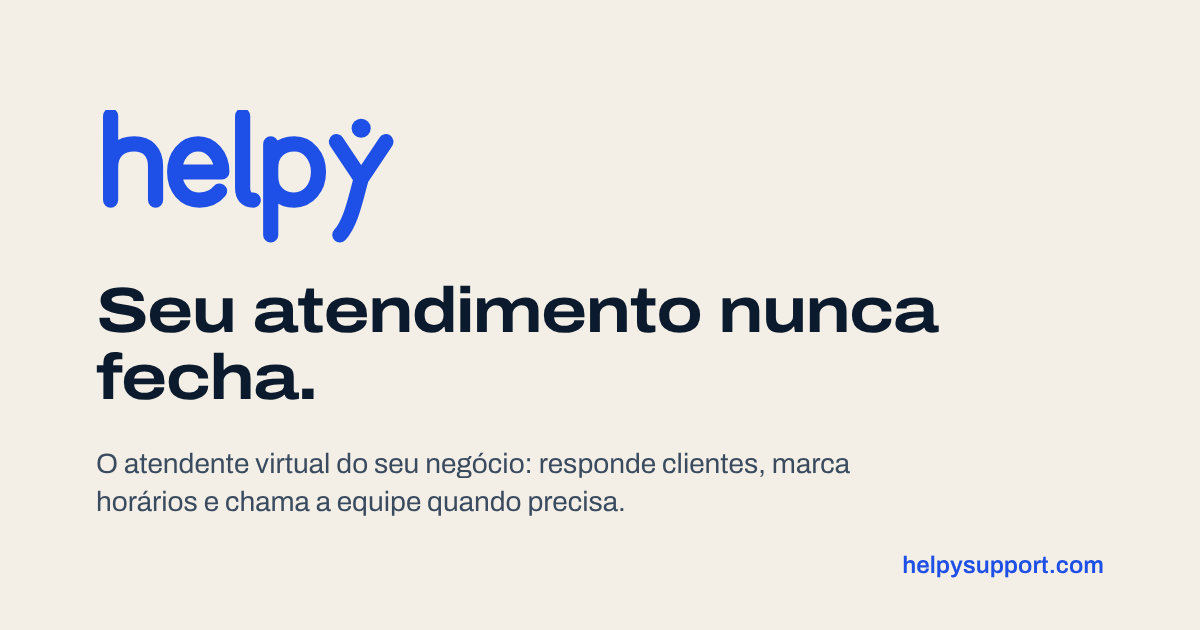
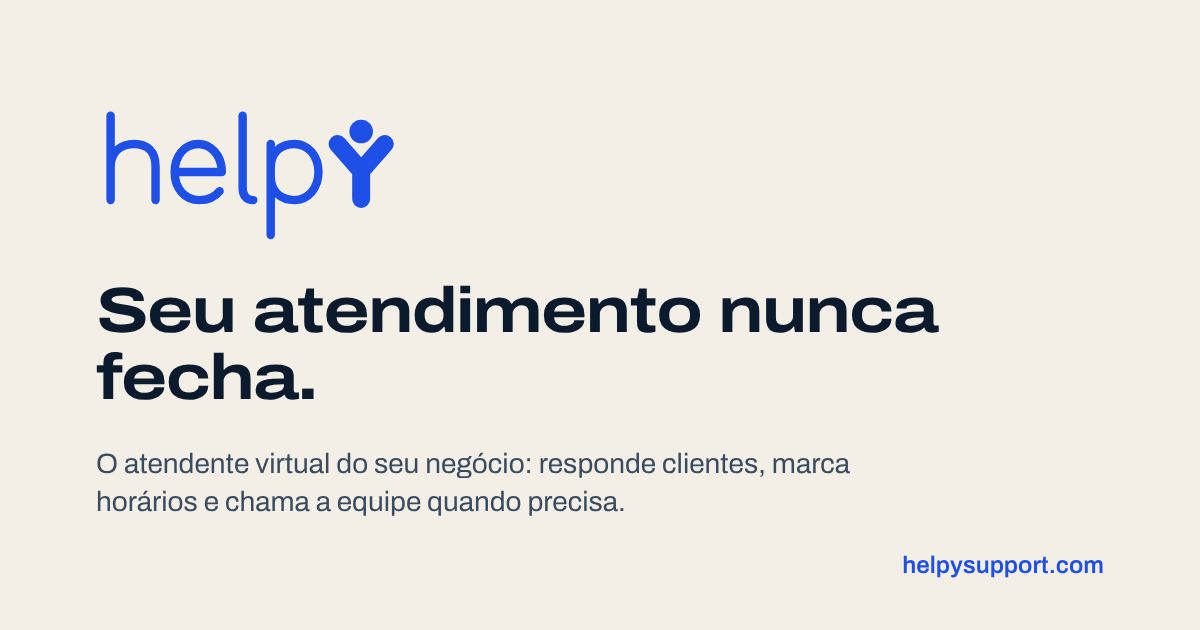
Marca na linha leve: letras finas e o Y-pessoa encorpado; abertura fluida, calculada quadro a quadro, com pouso suave no topo (#100)

Changed region(s): [[0.0617, 0.181, 0.3392, 0.3921]]

diff --git a/src/components/IntroLogo.jsx b/src/components/IntroLogo.jsx
@@ -1,12 +1,29 @@
-import { useCallback, useEffect, useRef, useState } from 'react';
-import { LETRAS_HELPY, PESSOA, TRACO } from '@/components/MarcaHelpy';
+import { useCallback, useEffect, useLayoutEffect, useRef, useState } from 'react';
+import { LETRAS_HELPY, PESSOA, TRACO, TRACO_PESSOA } from '@/components/MarcaHelpy';
 
 const CHAVE = 'helpy-abertura';
 
-// a história (segundos): a pessoinha (o y) aparece sozinha no meio e chama "aqui!",
-// acenando; o "help" vem se escrevendo até ela, num traço só; quando a ajuda
-// chega, ela dá um pulinho de alegria e o nome inteiro voa até o topo do site
-const T = { voa: 3.35, fim: 4.1 };
+// A história, numa linha do tempo só (segundos), calculada quadro a quadro:
+// a pessoinha (o Y) se desenha sozinha no meio e faz um "aqui!"; a caneta escreve
+// "help" num gesto contínuo enquanto ela desliza até o lugar dela; quando a ajuda
+// chega, um pulinho de alegria; e o nome voa até o logo do topo.
+const T = {
+  y: [0.05, 0.6], // o y se desenha
+  cabeca: [0.42, 0.9], // a cabeça aparece
+  aqui: [0.75, 1.25], // levanta e assenta: "aqui!"
+  escreve: [1.15, 2.55], // a caneta escreve "help"
+  alegria: [2.55, 3.05], // pulinho
+  voa: 3.2,
+  fim: 4.05,
+};
+const DESLOCA = 205; // quanto o y começa à esquerda (fica no centro do nome)
+
+const cl = (x) => Math.max(0, Math.min(1, x));
+const jan = (t, [a, b]) => cl((t - a) / (b - a));
+const suave = (x) => 0.5 - Math.cos(Math.PI * x) / 2; // acelera e desacelera uma vez
+const saida = (x) => 1 - Math.pow(1 - x, 3);
+const mola = (x) => (x <= 0 ? 0 : x >= 1 ? 1 : 1 + 2.2 * Math.pow(x - 1, 3) + 1.2 * Math.pow(x - 1, 2));
+const sino = (x) => Math.sin(Math.PI * x); // sobe e volta
 
 /** Mostra a abertura uma vez por visita, e nunca para quem pediu menos movimento. */
 export function deveMostrarAbertura() {
@@ -22,10 +39,18 @@ export function deveMostrarAbertura() {
 
 export default function IntroLogo({ onSaindo, onFim }) {
   const logo = useRef(null);
+  const letras = useRef([]);
+  const traco = useRef(null);
+  const y = useRef(null);
+  const pessoa = useRef(null);
+  const cabeca = useRef(null);
   const [fase, setFase] = useState('entra');
   const [pulou, setPulou] = useState(false);
+  const saiu = useRef(false);
 
   const sair = useCallback((pulouAgora) => {
+    if (saiu.current) return;
+    saiu.current = true;
     try {
       sessionStorage.setItem(CHAVE, '1');
     } catch {
@@ -34,24 +59,67 @@ export default function IntroLogo({ onSaindo, onFim }) {
     setFase('sai');
     setPulou(pulouAgora);
     onSaindo?.();
-    // o nome voa até onde fica o logo do topo
+    const dur = (T.fim - T.voa) * 1000;
+    // o nome voa até o logo do topo e o traço afina no caminho
     const alvo = document.querySelector('.lp-top-marca svg, .lp-top-marca');
     const el = logo.current;
     if (!pulouAgora && alvo && el) {
       const a = alvo.getBoundingClientRect();
       const b = el.getBoundingClientRect();
       const escala = a.height / b.height || 0.1;
+      const curva = 'cubic-bezier(0.65, 0, 0.25, 1)';
       el.animate(
         [{ transform: 'none' }, { transform: `translate(${a.left - b.left}px, ${a.top - b.top}px) scale(${escala})` }],
-        { duration: (T.fim - T.voa) * 1000, easing: 'cubic-bezier(0.7, 0, 0.2, 1)', fill: 'forwards' },
+        { duration: dur, easing: curva, fill: 'forwards' },
       );
     }
-    setTimeout(() => onFim?.(), pulouAgora ? 420 : (T.fim - T.voa) * 1000);
+    setTimeout(() => onFim?.(), pulouAgora ? 420 : dur);
   }, [onSaindo, onFim]);
 
+  // tamanho de cada traço, para a caneta andar no mesmo ritmo em todas as letras
+  const medidas = useRef(null);
+  useLayoutEffect(() => {
+    const tam = letras.current.map((p) => p?.getTotalLength() ?? 1);
+    const inicio = [];
+    tam.reduce((s, l, i) => ((inicio[i] = s), s + l), 0);
+    medidas.current = { tam, inicio, total: tam.reduce((s, l) => s + l, 0), y: y.current?.getTotalLength() ?? 1 };
+    // tudo começa escondido
+    letras.current.forEach((p, i) => p && (p.style.strokeDasharray = `${tam[i]} ${tam[i]}`, p.style.strokeDashoffset = `${tam[i]}`));
+    if (y.current) (y.current.style.strokeDasharray = `${medidas.current.y} ${medidas.current.y}`, y.current.style.strokeDashoffset = `${medidas.current.y}`);
+  }, []);
+
   useEffect(() => {
-    const t = setTimeout(() => sair(false), T.voa * 1000);
-    return () => clearTimeout(t);
+    let quadro = 0;
+    const t0 = performance.now();
+    const passo = (agora) => {
+      const t = (agora - t0) / 1000;
+      const m = medidas.current;
+      if (m) {
+        // o y se desenha (caneta saindo), e a cabeça aparece com uma mola
+        const py = saida(jan(t, T.y));
+        y.current.style.strokeDashoffset = `${m.y * (1 - py)}`;
+        y.current.style.opacity = py > 0 ? 1 : 0;
+        const pc = mola(jan(t, T.cabeca));
+        cabeca.current.setAttribute('transform', `translate(${PESSOA.cabeca.cx} ${PESSOA.cabeca.cy}) scale(${pc}) translate(${-PESSOA.cabeca.cx} ${-PESSOA.cabeca.cy})`);
+        // a caneta escreve "help" de uma vez só, no mesmo ritmo do começo ao fim
+        const pe = suave(jan(t, T.escreve));
+        const andou = pe * m.total;
+        letras.current.forEach((p, i) => {
+          const f = cl((andou - m.inicio[i]) / m.tam[i]);
+          p.style.strokeDashoffset = `${m.tam[i] * (1 - f)}`;
+          p.style.opacity = f > 0 ? 1 : 0;
+        });
+        // o y desliza junto com a escrita; "aqui!" e o pulinho são um gesto cada
+        const x = -DESLOCA * (1 - pe);
+        const sobe = -9 * sino(suave(jan(t, T.aqui))) - 12 * sino(jan(t, T.alegria));
+        const achata = 0.05 * sino(jan(t, T.alegria));
+        pessoa.current.setAttribute('transform', `translate(${x} ${sobe}) translate(466 0) scale(${1 + achata * 0.4} ${1 - achata}) translate(-466 0)`);
+      }
+      if (t < T.voa) quadro = requestAnimationFrame(passo);
+      else sair(false);
+    };
+    quadro = requestAnimationFrame(passo);
+    return () => cancelAnimationFrame(quadro);
   }, [sair]);
 
   return (
@@ -59,15 +127,13 @@ export default function IntroLogo({ onSaindo, onFim }) {
       <div className="abertura-fundo" />
       <div className="abertura-logo" ref={logo} style={{ transformOrigin: '0 0' }}>
         <svg className="abertura-svg" viewBox="-6 -160 534 236">
-          <g className="ab-help" fill="none" stroke="#1E4FE6" strokeWidth={TRACO} strokeLinecap="round" strokeLinejoin="round">
+          <g ref={traco} fill="none" stroke="#1E4FE6" strokeWidth={TRACO} strokeLinecap="round" strokeLinejoin="round">
             {LETRAS_HELPY.map((d, i) => (
-              <path key={d} d={d} pathLength="1" className="ab-letra" style={{ '--i': i }} />
+              <path key={d} d={d} ref={(el) => (letras.current[i] = el)} style={{ opacity: 0 }} />
             ))}
-          </g>
-          <g className="ab-pessoa">
-            <g className="ab-chama">
-            <path d={PESSOA.corpo} pathLength="1" className="ab-y" fill="none" stroke="#1E4FE6" strokeWidth={TRACO} strokeLinecap="round" strokeLinejoin="round" />
-            <circle className="ab-cabeca" {...PESSOA.cabeca} fill="#1E4FE6" />
+            <g ref={pessoa}>
+              <path d={PESSOA.corpo} ref={y} strokeWidth={TRACO_PESSOA} style={{ opacity: 0 }} />
+              <circle ref={cabeca} {...PESSOA.cabeca} fill="#1E4FE6" stroke="none" transform="scale(0)" />
             </g>
           </g>
         </svg>

diff --git a/src/components/MarcaHelpy.jsx b/src/components/MarcaHelpy.jsx
@@ -2,9 +2,12 @@
 // O "y" é uma pessoa de braços levantados — quem chama ("aqui!") e quem
 // responde ("tô aqui"). Sozinho, ele vira o ícone e o avatar.
 //
-// Unidades: linha de base em y = 0, altura-x 100, traço de 27.
+// Unidades: linha de base em y = 0, altura-x 100. As letras têm traço fino e o Y
+// (a pessoa) é mais encorpado: o contraste faz a pessoinha aparecer primeiro.
 
-export const TRACO = 27;
+export const TRACO = 15;
+/** O Y-pessoa tem o dobro do peso das letras. */
+export const TRACO_PESSOA = 32;
 
 /** Letras h, e, l, p (cada uma já posicionada) e o y-pessoa (braços + corpo e a cabeça). */
 export const LETRAS_HELPY = [
@@ -13,7 +16,8 @@ export const LETRAS_HELPY = [
   'M255 -150V-22C255 -8 261 0 274 0',
   'M305 -100V62M305 -58C305 -86 324 -100 347 -100C372 -100 390 -78 390 -50C390 -22 372 0 347 0C324 0 305 -14 305 -42',
 ];
-export const PESSOA = { corpo: 'M422 -104L466 -38M510 -104L466 -38C456 -2 448 40 428 62', cabeca: { cx: 466, cy: -128, r: 17 } };
+// Y simétrico: braços abertos para cima, corpo reto até a linha de base e a cabeça entre os braços
+export const PESSOA = { corpo: 'M424 -100L466 -52L508 -100M466 -52V-2', cabeca: { cx: 466, cy: -122, r: 21 } };
 
 // caixa do desenho inteiro (com a espessura do traço)
 const CAIXA = { x: -6, y: -160, w: 534, h: 236 };
@@ -23,11 +27,11 @@ export function Assinatura({ size = 36, cor = 'currentColor', className = '', ti
   const largura = (size * CAIXA.w) / CAIXA.h;
   return (
     <svg className={className} width={largura} height={size} viewBox={`${CAIXA.x} ${CAIXA.y} ${CAIXA.w} ${CAIXA.h}`} role="img" aria-label={titulo}>
-      <g fill="none" stroke={cor} strokeWidth={traco} strokeLinecap="round" strokeLinejoin="round">
-        {LETRAS_HELPY.map((d) => <path key={d} d={d} />)}
-        <path d={PESSOA.corpo} />
+      <g fill="none" stroke={cor} strokeLinecap="round" strokeLinejoin="round">
+        <g strokeWidth={traco}>{LETRAS_HELPY.map((d) => <path key={d} d={d} />)}</g>
+        <path d={PESSOA.corpo} strokeWidth={traco * (TRACO_PESSOA / TRACO)} />
       </g>
-      <circle {...PESSOA.cabeca} r={PESSOA.cabeca.r * (traco / TRACO) ** 0.6} fill={cor} />
+      <circle {...PESSOA.cabeca} fill={cor} />
     </svg>
   );
 }
@@ -36,8 +40,8 @@ export function Assinatura({ size = 36, cor = 'currentColor', className = '', ti
 export function Pessoa({ size = 32, cor = 'currentColor', className = '' }) {
   // caixa do y com folga do traço
   return (
-    <svg className={className} width={size} height={size} viewBox="402 -160 128 236" aria-hidden="true">
-      <path d={PESSOA.corpo} fill="none" stroke={cor} strokeWidth={TRACO} strokeLinecap="round" strokeLinejoin="round" />
+    <svg className={className} width={size} height={size} viewBox="396 -160 140 176" aria-hidden="true">
+      <path d={PESSOA.corpo} fill="none" stroke={cor} strokeWidth={TRACO_PESSOA} strokeLinecap="round" strokeLinejoin="round" />
       <circle {...PESSOA.cabeca} fill={cor} />
     </svg>
   );

diff --git a/src/styles/landing.css b/src/styles/landing.css
@@ -1762,8 +1762,9 @@
 }
 
 /* a logo do topo espera a da abertura chegar voando */
+.lp-top-marca { transition: opacity 0.35s ease; }
 .lp[data-logo-voando='sim'] .lp-top-marca {
-  visibility: hidden;
+  opacity: 0;
 }
 
 /* enquanto a abertura está na tela, o topo da página espera para entrar */
@@ -2446,61 +2447,9 @@
   .mascote *, .mascote { animation: none !important; transition: none !important; }
 }
 
-/* ---------- abertura da marca: alguém chama "aqui!" e o help chega ---------- */
+/* ---------- abertura da marca (a coreografia está no IntroLogo.jsx, quadro a quadro) ---------- */
 .abertura-assina .abertura-svg { width: min(70vw, 520px); }
-
-/* 1. a pessoinha aparece sozinha no centro do nome (o y fica 205 unidades à esquerda) */
-.abertura-assina .ab-pessoa {
-  transform: translateX(-205px);
-  animation: ab-encosta 1.25s cubic-bezier(0.65, 0, 0.35, 1) 1.15s forwards;
-}
-.abertura-assina .ab-y {
-  stroke-dasharray: 1;
-  stroke-dashoffset: 1;
-  animation: ab-escreve 0.55s cubic-bezier(0.33, 0, 0.2, 1) 0.1s both;
-}
-.abertura-assina .ab-cabeca {
-  transform-box: fill-box;
-  transform-origin: center;
-  transform: scale(0);
-  animation: ab-cabeca 0.5s cubic-bezier(0.3, 1.8, 0.5, 1) 0.5s forwards;
-}
-/* 2. ela chama: balança os braços, como quem acena "aqui!" (e pula de alegria no fim) */
-.abertura-assina .ab-chama {
-  transform-box: fill-box;
-  transform-origin: 40% 100%;
-  animation:
-    ab-acena 0.7s ease-in-out 0.75s 2,
-    ab-alegria 0.6s cubic-bezier(0.3, 1.5, 0.5, 1) 2.45s;
-}
-/* 3. o help se escreve até ela, num gesto contínuo (cada letra começa antes da outra acabar) */
-.abertura-assina .ab-letra {
-  stroke-dasharray: 1;
-  stroke-dashoffset: 1;
-  animation: ab-escreve 0.62s cubic-bezier(0.45, 0.05, 0.25, 1) both;
-  animation-delay: calc(1.2s + var(--i, 0) * 0.27s);
-}
-.abertura-assina[data-fase='sai'] .abertura-fundo { animation: ab-sai 0.7s ease forwards; }
-
-/* escondido até começar: senão a ponta redonda do traço aparece como um pontinho */
-@keyframes ab-escreve {
-  0% { stroke-dashoffset: 1; opacity: 0; }
-  1% { opacity: 1; }
-  100% { stroke-dashoffset: 0; opacity: 1; }
-}
-@keyframes ab-cabeca { to { transform: scale(1); } }
-@keyframes ab-encosta { to { transform: translateX(0); } }
-@keyframes ab-acena {
-  0%, 100% { transform: rotate(0deg); }
-  30% { transform: rotate(-7deg); }
-  70% { transform: rotate(6deg); }
-}
-@keyframes ab-alegria {
-  0% { transform: translateY(0) scale(1, 1); }
-  30% { transform: translateY(3%) scale(1.05, 0.93); }
-  60% { transform: translateY(-10%) scale(0.96, 1.06); }
-  100% { transform: translateY(0) scale(1, 1); }
-}
+.abertura-assina[data-fase='sai'] .abertura-fundo { animation: ab-sai 0.75s ease forwards; }
 
 /* o y-pessoa como personagem: acena balançando a partir do pé, a cabeça segue o mouse */
 .mascote-pessoa {

diff --git a/src/components/Logo.jsx b/src/components/Logo.jsx
@@ -100,5 +100,5 @@ export function Nome({ size = 30, tom = 'escuro', className = 'logo-word' }) {
  * tom "claro" é para fundo escuro.
  */
 export default function Logo({ size = 30, tom = 'escuro' }) {
-  return <Assinatura size={Math.round(size * 1.15)} traco={20} className="logo-helpy" cor={tom === 'claro' ? '#fff' : 'var(--logo-cor, #1E4FE6)'} />;
+  return <Assinatura size={Math.round(size * 1.15)} className="logo-helpy" cor={tom === 'claro' ? '#fff' : 'var(--logo-cor, #1E4FE6)'} />;
 }
